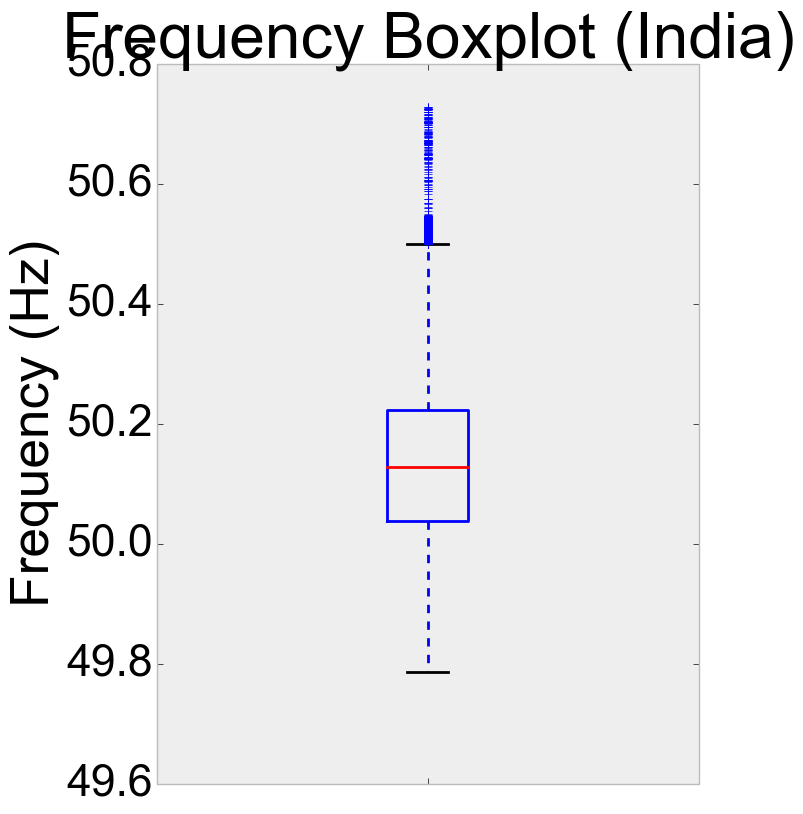
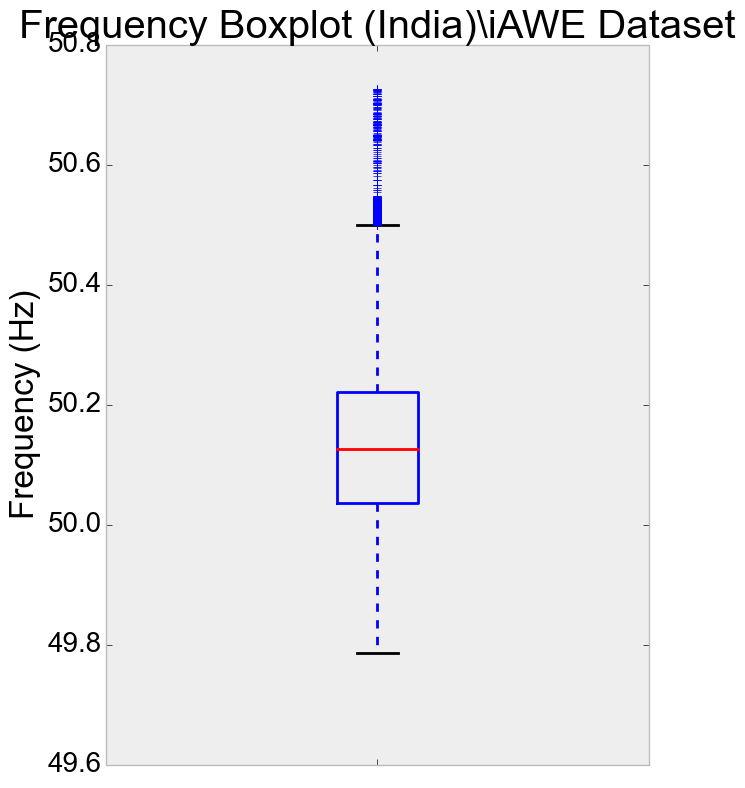
Added images

diff --git a/software/stats/voltage_frequency_week_boxplot.py b/software/stats/voltage_frequency_week_boxplot.py
@@ -14,7 +14,7 @@ import matplotlib.dates as mdates
 import matplotlib.pyplot as plt
 import matplotlib
 start_date=datetime.datetime(2013,5,29,0,0,0,tzinfo=pytz.timezone('Asia/Kolkata'))
-matplotlib.rcParams.update({'font.size': 32})
+matplotlib.rcParams.update({'font.size': 20})
 import json
 s = json.load( open("bmh_matplotlibrc.json") )
 matplotlib.rcParams.update(s)
@@ -49,7 +49,7 @@ for i in range(len(V)):
 
 	
 plt.boxplot(VO)
-plt.title('Voltage Boxplot (India)')
+plt.title('Voltage Boxplot (India)\niAWE Dataset')
 plt.ylabel('Voltage (V)')
 plt.xticks([1],[''])
 plt.grid()
@@ -58,7 +58,7 @@ fig.set_size_inches(7,9)
 plt.savefig('voltage_box.png',dpi=100,bbox_inches='tight')
 plt.clf()
 plt.boxplot(FR)
-plt.title('Frequency Boxplot (India)')
+plt.title('Frequency Boxplot (India)\iAWE Dataset')
 plt.ylabel('Frequency (Hz)')
 plt.xticks([1],[''])
 plt.grid()

diff --git a/software/stats/smart_meter_electricity_failure.py b/software/stats/smart_meter_electricity_failure.py
@@ -14,10 +14,14 @@ import matplotlib.dates as mdates
 import matplotlib.pyplot as plt
 import matplotlib
 start_date=datetime.datetime(2013,5,25,0,0,0,tzinfo=pytz.timezone('Asia/Kolkata'))
-matplotlib.rcParams.update({'font.size': 32})
 import json
-s = json.load( open("bmh_matplotlibrc.json") )
-matplotlib.rcParams.update(s)
+#s = json.load( open("bmh_matplotlibrc.json") )
+#matplotlib.rcParams.update(s)
+from mpltools import style
+from mpltools import layout
+
+style.use('ggplot')
+matplotlib.rcParams.update({'font.size': 32})
 
 
 num_days=61
@@ -54,4 +58,4 @@ plt.ylabel('Hours')
 
 fig=plt.gcf()
 fig.set_size_inches(16,9)	
-plt.savefig('electricity.png',dpi=100,bbox_inches='tight')
+plt.savefig('electricity_ggplot.png',dpi=100,bbox_inches='tight')
